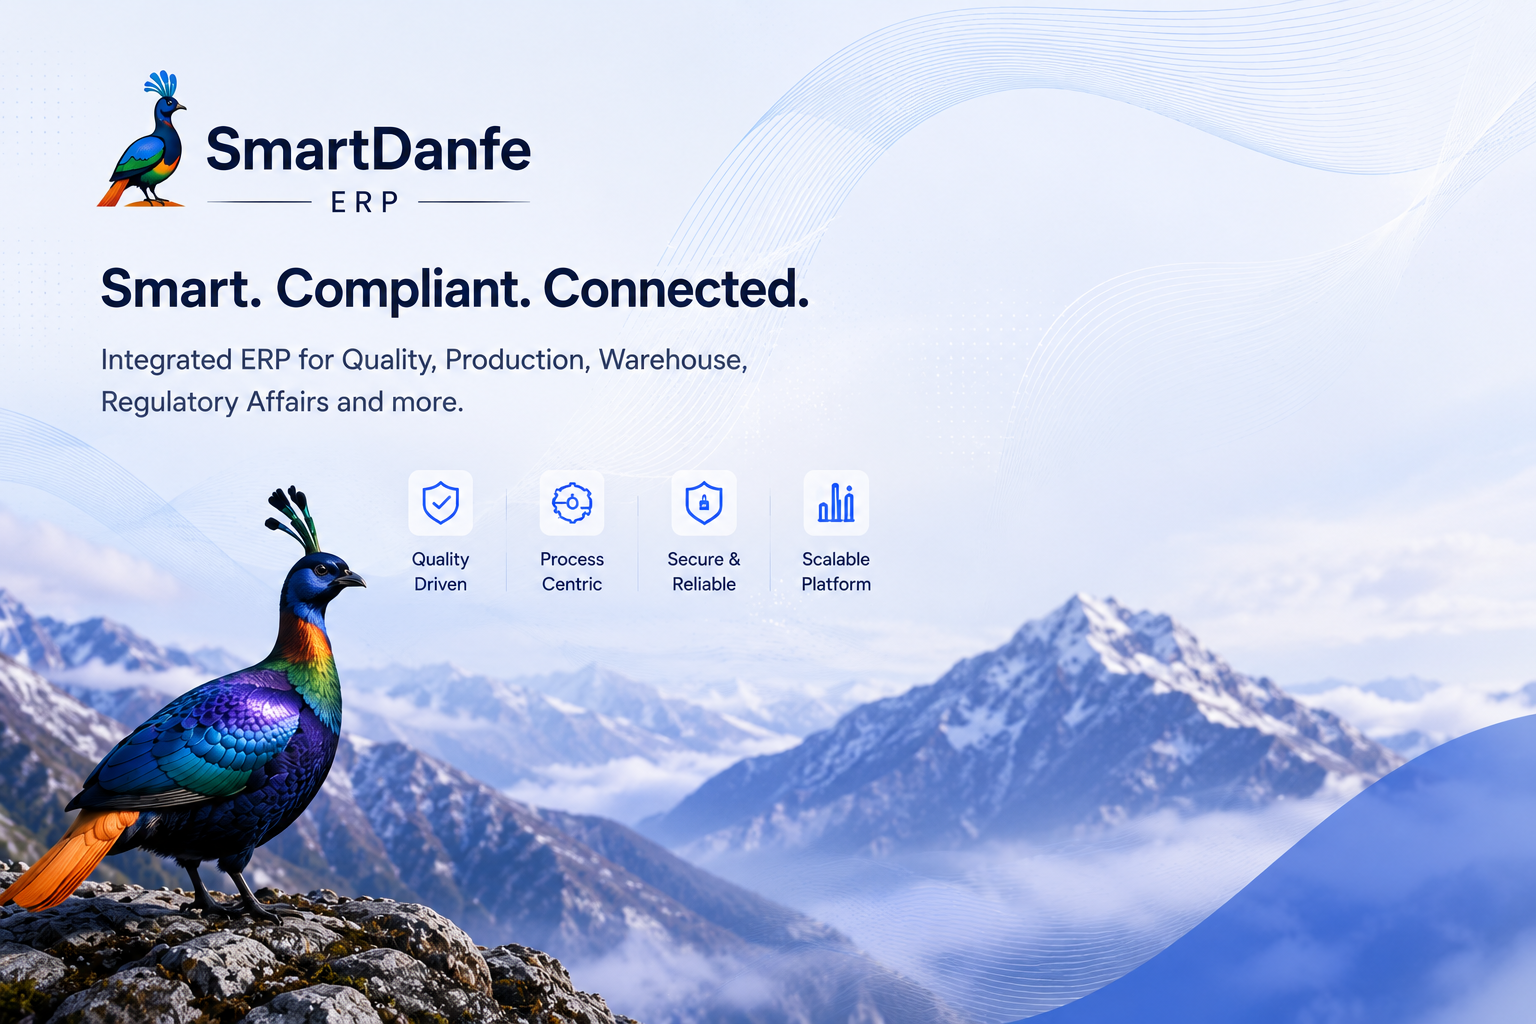
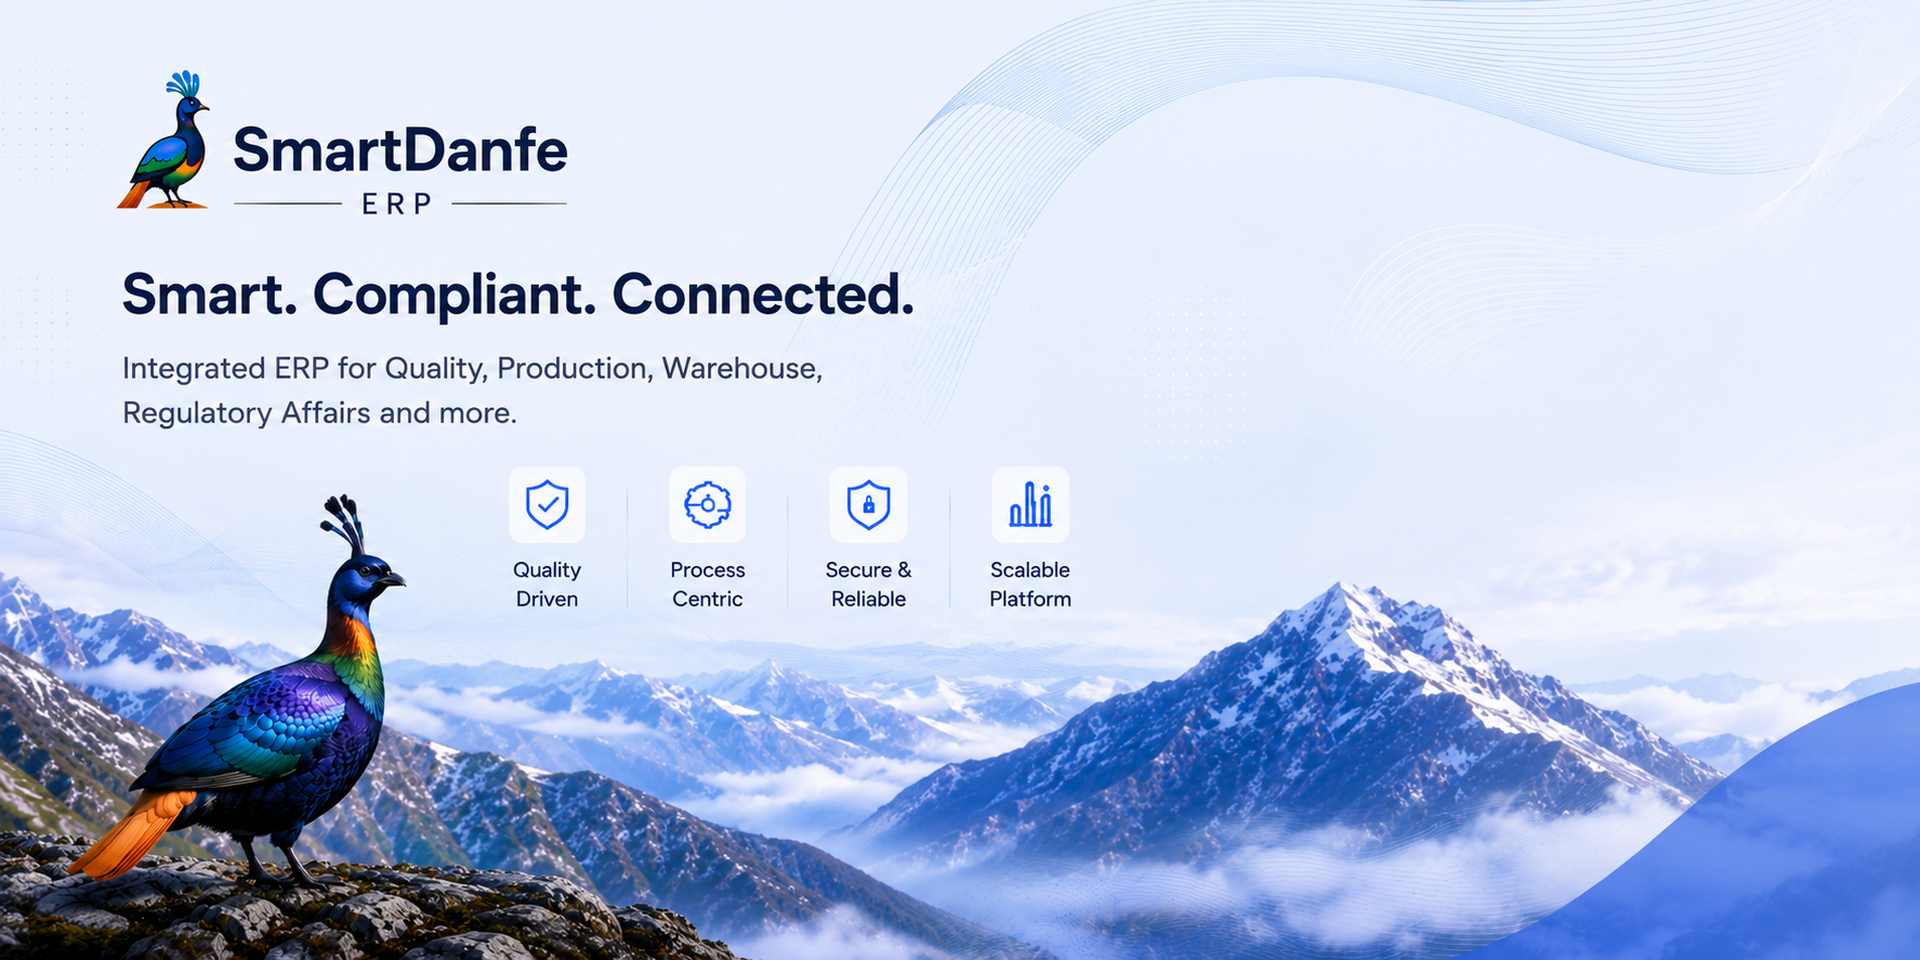
update login page

diff --git a/wwwroot/css/login.css b/wwwroot/css/login.css
@@ -1,10 +1,7 @@
 /* ==========================================================================
    SmartDanfe ERP — Login Page
+   Full-page banner background, card floats on right
    ========================================================================== */
-
-/* ===========================
-   Theme Tokens
-   =========================== */
 
 :root {
     --primary: #2563EB;
@@ -18,13 +15,9 @@
     --radius-input: 10px;
     --radius-btn: 10px;
     --transition: .22s ease;
-    --shadow-card: 0 20px 60px rgba(15,23,42,.10);
+    --shadow-card: 0 24px 64px rgba(15,23,42,.18);
     --font: Inter, "Segoe UI", system-ui, sans-serif;
 }
-
-/* ===========================
-   Reset
-   =========================== */
 
 *,
 *::before,
@@ -50,7 +43,7 @@ body {
 }
 
 /* ===========================
-   Page Shell
+   Page Wrapper
    =========================== */
 
 .login-wrapper {
@@ -61,46 +54,46 @@ body {
     overflow: hidden;
 }
 
-.login-page {
-    flex: 1;
-    display: grid;
-    grid-template-columns: 58% 42%;
-    min-height: 0;
-    overflow: hidden;
-}
-
 /* ===========================
-   LEFT PANEL
-   Banner image is the entire content — no extra markup
+   Login Page
+   Banner fills everything, card sits on top-right
    =========================== */
 
-.left-panel {
-    overflow: hidden;
+.login-page {
+    flex: 1;
+    position: relative;
     min-height: 0;
-    background: #C8D9EF;
-    display: flex;
+    overflow: hidden;
 }
 
+/* Full-page banner — entire background including behind card */
 .banner-img {
+    position: absolute;
+    inset: 0;
     width: 100%;
     height: 100%;
-    object-fit: cover;
-    object-position: center center;
+    object-fit: fill;
     display: block;
+    z-index: 0;
+    background: #E4EDF8;
 }
 
 /* ===========================
-   RIGHT PANEL
+   Right Panel — fully transparent, no background at all
    =========================== */
 
 .right-panel {
+    position: absolute;
+    top: 0;
+    right: 0;
+    bottom: 0;
+    width: 42%;
     display: flex;
     justify-content: center;
     align-items: center;
     padding: 24px 36px;
-    background: #F8FAFC;
-    overflow: hidden;
-    min-height: 0;
+    background: none;
+    z-index: 1;
 }
 
 /* ===========================
@@ -116,7 +109,6 @@ body {
     border: 1px solid var(--border);
     box-shadow: var(--shadow-card);
     animation: cardIn .40s ease;
-    max-height: 100%;
 }
 
 @keyframes cardIn {
@@ -141,7 +133,7 @@ body {
     gap: 12px;
     padding-bottom: 16px;
     border-bottom: 1px solid var(--border);
-    margin-bottom: 14px;
+    margin-bottom: 18px;
 }
 
 .tenant-logo {
@@ -154,52 +146,11 @@ body {
     flex-shrink: 0;
 }
 
-.tenant-info {
-    display: flex;
-    flex-direction: column;
-    gap: 2px;
-}
-
 .tenant-name {
-    font-size: 16px;
+    font-size: 17px;
     font-weight: 700;
     color: var(--text);
     line-height: 1.2;
-}
-
-.tenant-url {
-    font-size: 13px;
-    color: var(--primary);
-    font-weight: 500;
-}
-
-/* ===========================
-   Workspace Notice
-   =========================== */
-
-.workspace-notice {
-    display: flex;
-    align-items: center;
-    gap: 8px;
-    background: #EFF6FF;
-    border: 1px solid #BFDBFE;
-    border-radius: 8px;
-    padding: 9px 13px;
-    margin-bottom: 18px;
-    font-size: 12.5px;
-    color: #1E40AF;
-    line-height: 1.4;
-}
-
-.notice-icon {
-    width: 15px;
-    height: 15px;
-    flex-shrink: 0;
-    color: #2563EB;
-}
-
-.workspace-notice strong {
-    font-weight: 600;
 }
 
 /* ===========================
@@ -207,15 +158,15 @@ body {
    =========================== */
 
 .welcome-section {
-    margin-bottom: 18px;
+    margin-bottom: 20px;
 }
 
     .welcome-section h2 {
-        font-size: 24px;
+        font-size: 25px;
         font-weight: 800;
         color: var(--text);
         letter-spacing: -.3px;
-        margin-bottom: 3px;
+        margin-bottom: 4px;
     }
 
     .welcome-section p {
@@ -228,7 +179,7 @@ body {
    =========================== */
 
 .form-group {
-    margin-bottom: 14px;
+    margin-bottom: 15px;
 }
 
 .field-label {
@@ -238,10 +189,6 @@ body {
     color: #374151;
     margin-bottom: 6px;
 }
-
-/* ===========================
-   Input Wrapper
-   =========================== */
 
 .input-wrapper {
     position: relative;
@@ -266,7 +213,7 @@ body {
 .field-input {
     width: 100%;
     height: 44px;
-    padding: 0 40px 0 40px;
+    padding: 0 40px;
     font-size: 14px;
     font-family: var(--font);
     color: var(--text);
@@ -329,14 +276,14 @@ body {
 }
 
 /* ===========================
-   Login Options Row
+   Options Row
    =========================== */
 
 .login-options {
     display: flex;
     justify-content: space-between;
     align-items: center;
-    margin-bottom: 16px;
+    margin-bottom: 18px;
 }
 
 .remember-me {
@@ -410,7 +357,6 @@ body {
     .login-button:disabled {
         background: #CBD5E1;
         cursor: not-allowed;
-        box-shadow: none;
     }
 
 .btn-arrow {
@@ -436,65 +382,6 @@ body {
 }
 
 /* ===========================
-   Or Divider
-   =========================== */
-
-.or-divider {
-    display: flex;
-    align-items: center;
-    gap: 12px;
-    margin: 14px 0;
-}
-
-.or-line {
-    flex: 1;
-    height: 1px;
-    background: var(--border);
-}
-
-.or-text {
-    font-size: 12.5px;
-    color: #94A3B8;
-    font-weight: 500;
-}
-
-/* ===========================
-   SSO Button
-   =========================== */
-
-.sso-button {
-    width: 100%;
-    height: 42px;
-    display: flex;
-    align-items: center;
-    justify-content: center;
-    gap: 9px;
-    border: 1.5px solid var(--border);
-    border-radius: var(--radius-btn);
-    background: #FFFFFF;
-    color: var(--text);
-    font-size: 14px;
-    font-weight: 600;
-    font-family: var(--font);
-    cursor: pointer;
-    transition: border-color var(--transition), background var(--transition), box-shadow var(--transition);
-    margin-bottom: 14px;
-}
-
-    .sso-button:hover {
-        border-color: var(--primary);
-        background: var(--primary-light);
-        box-shadow: 0 2px 10px rgba(37,99,235,.10);
-    }
-
-.sso-icon {
-    width: 16px;
-    height: 16px;
-    color: var(--primary);
-    flex-shrink: 0;
-}
-
-/* ===========================
    Help Row
    =========================== */
 
@@ -505,6 +392,7 @@ body {
     gap: 6px;
     font-size: 13px;
     color: var(--text-light);
+    margin-top: 16px;
 }
 
 .help-icon {
@@ -539,6 +427,7 @@ body {
     border-top: 1px solid var(--border);
     font-size: 12px;
     color: #94A3B8;
+    z-index: 2;
 }
 
 .footer-security {
@@ -590,18 +479,15 @@ input:focus-visible {
    =========================== */
 
 @media (max-width: 1400px) {
-    .login-page {
-        grid-template-columns: 55% 45%;
-    }
-
     .right-panel {
+        width: 44%;
         padding: 20px 28px;
     }
 }
 
 @media (max-width: 1200px) {
-    .login-page {
-        grid-template-columns: 50% 50%;
+    .right-panel {
+        width: 48%;
     }
 
     .login-card {
@@ -614,18 +500,10 @@ input:focus-visible {
    =========================== */
 
 @media (max-width: 992px) {
-    .login-page {
-        grid-template-columns: 1fr;
-    }
-
-    .left-panel {
-        display: none;
-    }
-
     .right-panel {
-        overflow-y: auto;
-        align-items: flex-start;
-        padding: 40px 24px;
+        width: 100%;
+        background: rgba(255,255,255,.75);
+        backdrop-filter: blur(6px);
     }
 
     .login-card {
@@ -684,10 +562,6 @@ input:focus-visible {
    =========================== */
 
 @media print {
-    .left-panel {
-        display: none;
-    }
-
     .login-card {
         box-shadow: none;
         border: 1px solid #DDD;